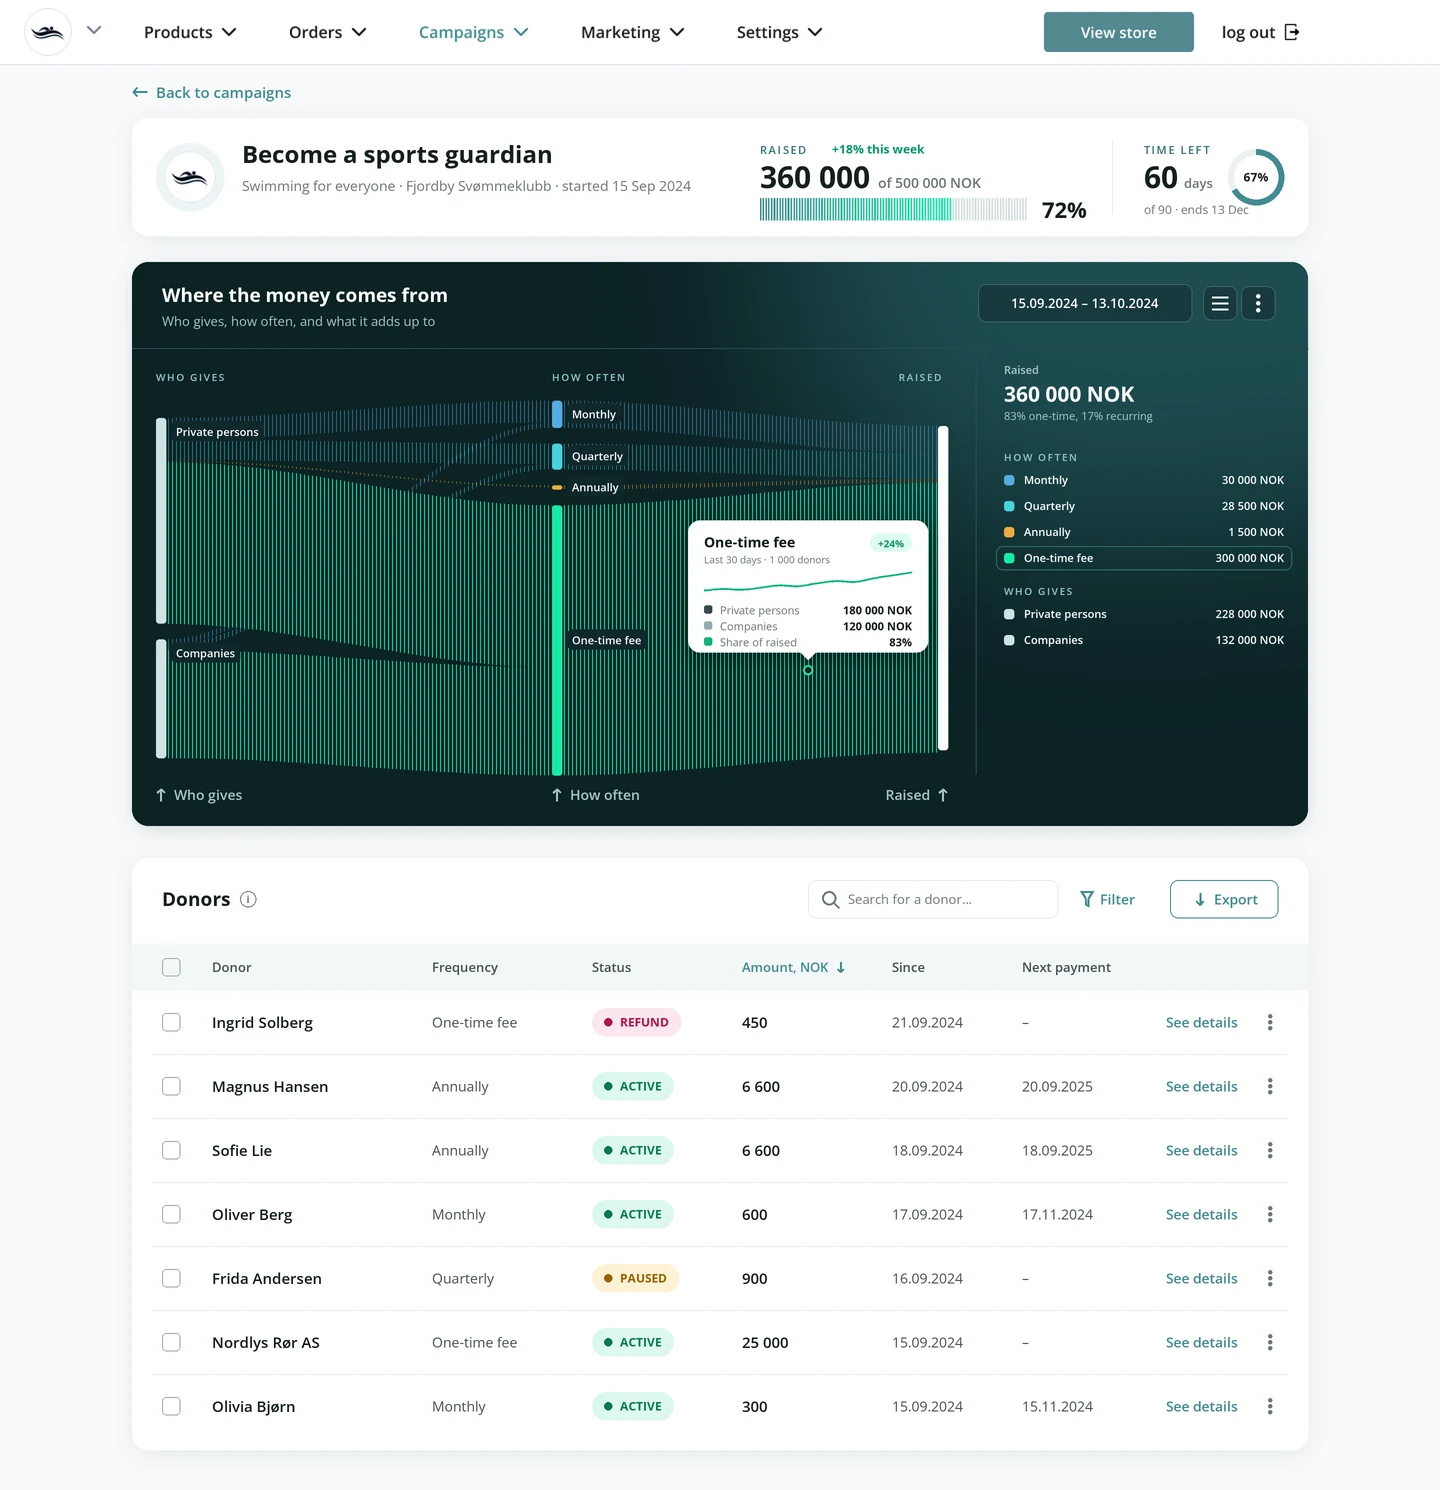
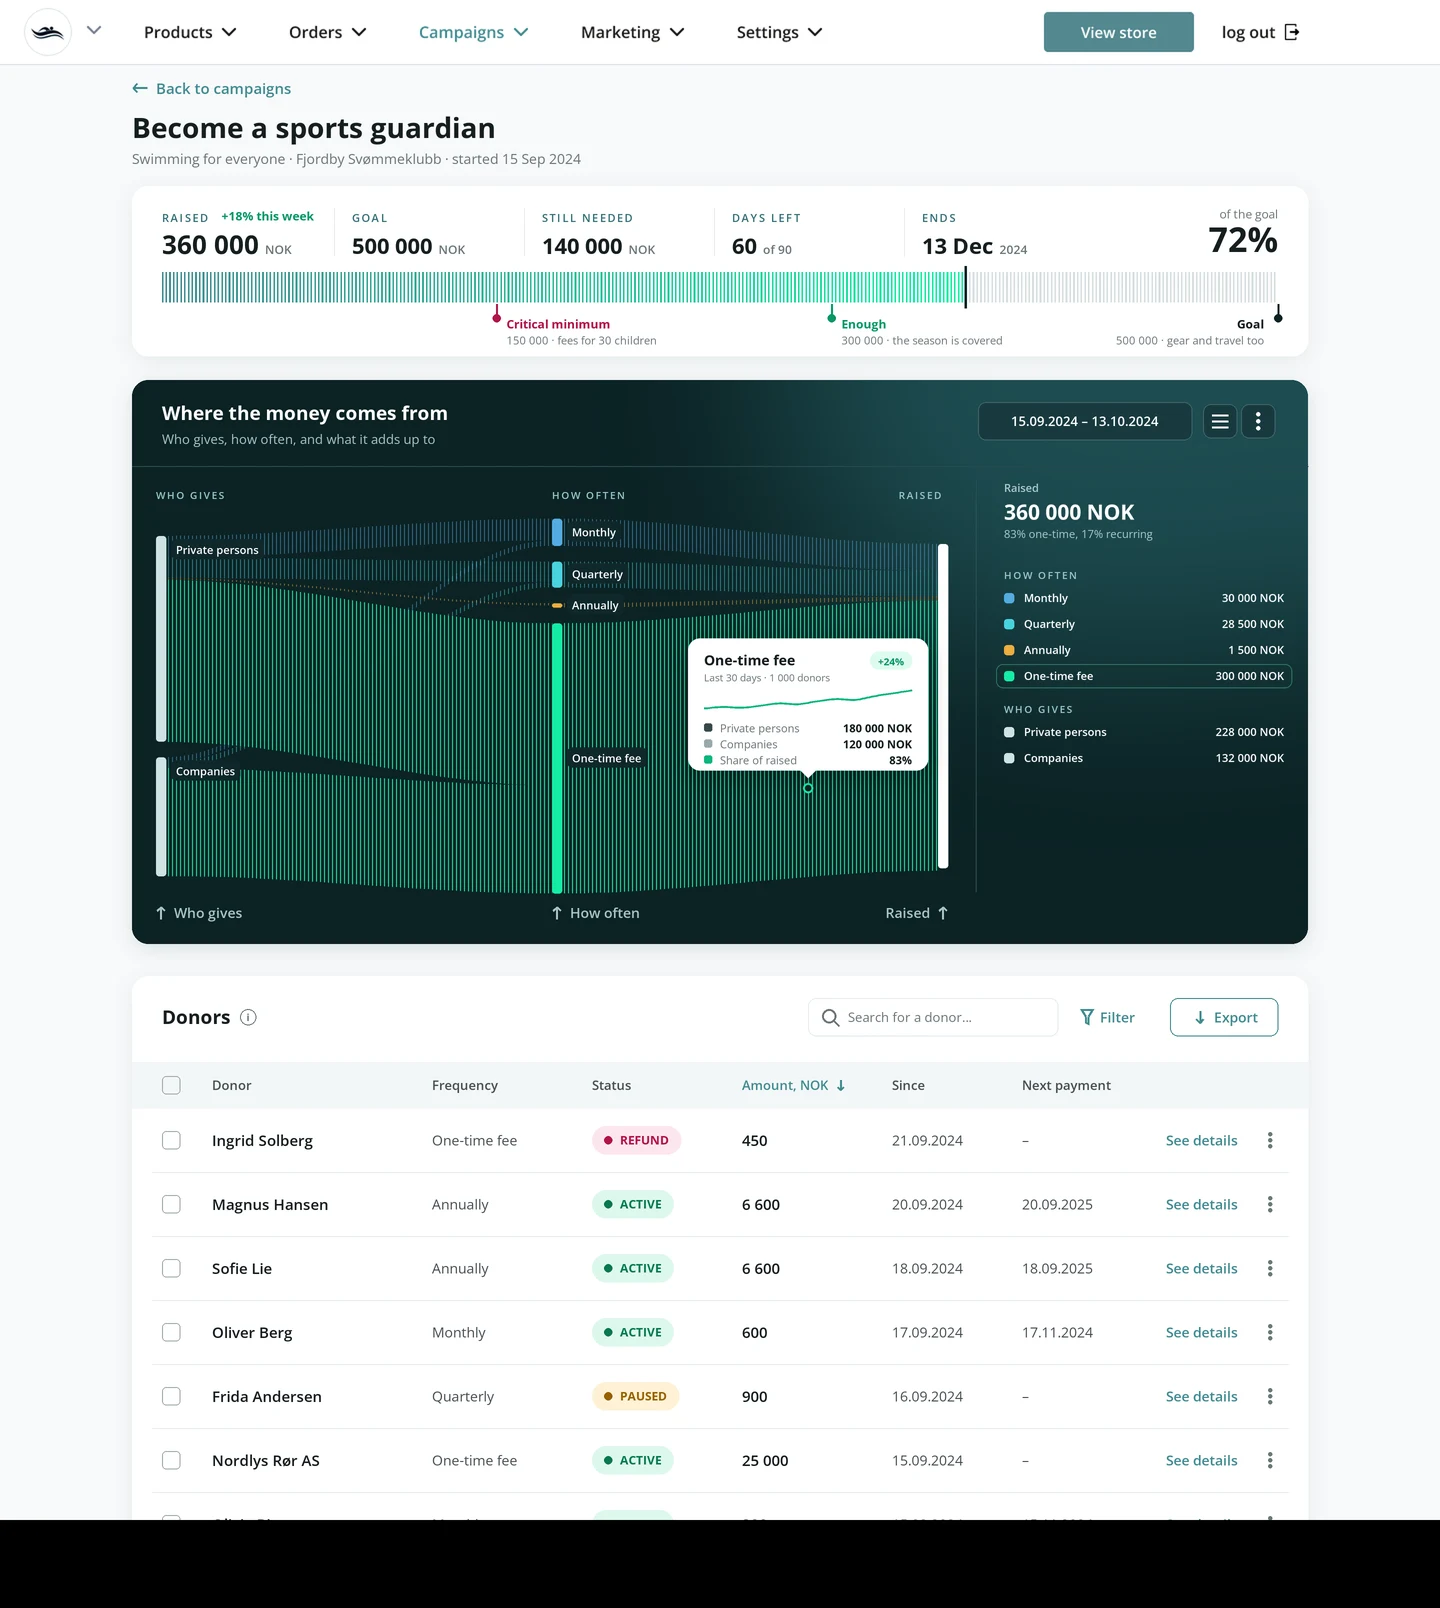
Sport Guardian admin: title above the card; full-width line progress with raised, goal, still needed, days left, end date and marks for critical, enough and goal

diff --git a/SportGuardian.html b/SportGuardian.html
@@ -311,7 +311,7 @@ footer .wrap{display:flex;justify-content:space-between;gap:16px;flex-wrap:wrap}
 
 <figure class="c5-12 rv" style="--d:.1s"><div class="panel"><img class="el c" src="assets/work/sport-guardian/el-create-donations.webp" alt="From the campaign builder: Accept donations from private persons and companies, and Select donation frequency, from monthly to a one-time fee, each with a short hint." width="1200" height="1183" loading="lazy"></div><figcaption>For the club: who can give and how often, with a hint under every choice.</figcaption></figure>
 
-<figure class="c1-12 rv scroll"><div class="panel"><div class="browser" style="max-width:1000px"><div class="bar" aria-hidden="true"><i></i><i></i><i></i><span>admin.supporter.no</span></div><div class="vp fx" style="--to:-41.4%;--t:22s;--hd:4.514%"><img class="hd" src="assets/work/sport-guardian/screen-statistik-head.webp" alt="" width="1440" height="65" loading="lazy"><img src="assets/work/sport-guardian/screen-statistik-body.webp" alt="The campaign dashboard in the admin panel: a header card with the campaign, 360 000 of 500 000 NOK raised with a segmented progress bar at 72% and 60 days left; a dark Sankey card with a date range, the flows from private persons and companies through each frequency to the total, a tooltip on One-time fee and a legend with every amount; and the donor table with search, Filter and Export." width="1440" height="1425" loading="lazy"></div></div></div><figcaption style="max-width:64ch">The campaign dashboard: the goal and the days left at the top, where the money comes from, and every donor with refunds and pauses in one table.</figcaption></figure>
+<figure class="c1-12 rv scroll"><div class="panel"><div class="browser" style="max-width:1000px"><div class="bar" aria-hidden="true"><i></i><i></i><i></i><span>admin.supporter.no</span></div><div class="vp fx" style="--to:-45.9%;--t:24s;--hd:4.514%"><img class="hd" src="assets/work/sport-guardian/screen-statistik-head.webp" alt="" width="1440" height="65" loading="lazy"><img src="assets/work/sport-guardian/screen-statistik-body.webp" alt="The campaign dashboard in the admin panel: the title Become a sports guardian; a progress card with 360 000 NOK raised, a 500 000 NOK goal, 140 000 still needed, 60 days left and the end date, a full-width bar at 72% with marks for the critical minimum, enough and the goal; a dark Sankey card of where the money comes from with a tooltip and a legend; and the donor table with search, Filter and Export." width="1440" height="1543" loading="lazy"></div></div></div><figcaption style="max-width:64ch">The campaign dashboard: the goal and the days left at the top, where the money comes from, and every donor with refunds and pauses in one table.</figcaption></figure>
       <div class="c1-12 rv charts">
         <div class="about"><h3>What this chart is</h3><p><b>A Sankey diagram.</b> Each band is as wide as the amount it carries, so you can follow the money from who gives, through how often they give, to the total.</p><p><b>When to use it:</b> when a whole splits and merges across stages and the question is where the volume goes, as with a budget, the money in a campaign, or the paths people take through a product. With more than about a dozen nodes, or when exact values must be compared, a table or a bar chart reads better.</p></div>
         <div><h3>Other charts, and when to use them</h3><ul class="ctypes"><li><svg viewBox="0 0 56 32" aria-hidden="true" focusable="false"><rect x="4" y="16" width="8" height="14" rx="1" fill="#CFE3E4"/><rect x="16" y="6" width="8" height="24" rx="1" fill="#418B91"/><rect x="28" y="12" width="8" height="18" rx="1" fill="#CFE3E4"/><rect x="40" y="20" width="8" height="10" rx="1" fill="#CFE3E4"/></svg><b>Bar chart</b><span>Compares amounts across categories, such as money raised per club or per campaign.</span></li><li><svg viewBox="0 0 56 32" aria-hidden="true" focusable="false"><path d="M3 26 L14 20 L24 22 L34 11 L44 13 L53 4" fill="none" stroke="#418B91" stroke-width="2" stroke-linejoin="round" stroke-linecap="round"/></svg><b>Line chart</b><span>Shows a trend over time, such as money raised day by day.</span></li><li><svg viewBox="0 0 56 32" aria-hidden="true" focusable="false"><path d="M3 26 L14 19 L24 21 L34 11 L44 12 L53 5 V30 H3 Z" fill="#CFE3E4"/><path d="M3 26 L14 19 L24 21 L34 11 L44 12 L53 5" fill="none" stroke="#418B91" stroke-width="2" stroke-linejoin="round"/></svg><b>Area chart</b><span>A line chart with the volume filled in: for a total that builds up over time.</span></li><li><svg viewBox="0 0 56 32" aria-hidden="true" focusable="false"><rect x="4" y="14" width="10" height="16" fill="#418B91"/><rect x="4" y="8" width="10" height="6" fill="#CFE3E4"/><rect x="22" y="10" width="10" height="20" fill="#418B91"/><rect x="22" y="3" width="10" height="7" fill="#CFE3E4"/><rect x="40" y="18" width="10" height="12" fill="#418B91"/><rect x="40" y="12" width="10" height="6" fill="#CFE3E4"/></svg><b>Stacked bar chart</b><span>Parts of a whole, compared across groups, such as one-time and recurring gifts per campaign.</span></li><li><svg viewBox="0 0 56 32" aria-hidden="true" focusable="false"><polygon points="28.0,2.0 40.1,9.0 40.1,23.0 28.0,30.0 15.9,23.0 15.9,9.0" fill="none" stroke="#CFE3E4" stroke-width="1"/><polygon points="28.0,7.0 35.8,11.5 35.8,20.5 28.0,25.0 20.2,20.5 20.2,11.5" fill="none" stroke="#CFE3E4" stroke-width="1"/><polygon points="28.0,11.5 31.9,13.8 31.9,18.2 28.0,20.5 24.1,18.2 24.1,13.8" fill="none" stroke="#CFE3E4" stroke-width="1"/><line x1="28" y1="16" x2="28.0" y2="2.0" stroke="#CFE3E4" stroke-width="1"/><line x1="28" y1="16" x2="40.1" y2="9.0" stroke="#CFE3E4" stroke-width="1"/><line x1="28" y1="16" x2="40.1" y2="23.0" stroke="#CFE3E4" stroke-width="1"/><line x1="28" y1="16" x2="28.0" y2="30.0" stroke="#CFE3E4" stroke-width="1"/><line x1="28" y1="16" x2="15.9" y2="23.0" stroke="#CFE3E4" stroke-width="1"/><line x1="28" y1="16" x2="15.9" y2="9.0" stroke="#CFE3E4" stroke-width="1"/><polygon points="28.0,4.0 34.9,12.0 39.3,22.5 28.0,22.0 19.3,21.0 20.2,11.5" fill="#418B91" fill-opacity=".35" stroke="#418B91" stroke-width="1.6" stroke-linejoin="round"/></svg><b>Radar chart</b><span>Compares several measures of one thing at once, such as how a club does on donors, gifts, reach and repeat giving against the average; reads best with five to eight measures.</span></li><li><svg viewBox="0 0 56 32" aria-hidden="true" focusable="false"><circle cx="28" cy="16" r="11" fill="none" stroke="#CFE3E4" stroke-width="5"/><path d="M28 5 A11 11 0 1 1 18.5 21.5" fill="none" stroke="#418B91" stroke-width="5"/></svg><b>Donut or progress ring</b><span>One share of a whole, or progress to a goal; reads best with one to three parts.</span></li><li><svg viewBox="0 0 56 32" aria-hidden="true" focusable="false"><rect x="4" y="3" width="48" height="6" rx="1" fill="#418B91"/><rect x="11" y="12" width="34" height="6" rx="1" fill="#418B91" fill-opacity=".7"/><rect x="18" y="21" width="20" height="6" rx="1" fill="#418B91" fill-opacity=".45"/></svg><b>Funnel chart</b><span>How many people drop off between the steps of a flow, from the campaign page to the payment.</span></li><li><svg viewBox="0 0 56 32" aria-hidden="true" focusable="false"><rect x="4" y="3" width="9" height="8" rx="1" fill="#418B91" fill-opacity="0.2"/><rect x="14" y="3" width="9" height="8" rx="1" fill="#418B91" fill-opacity="0.5"/><rect x="24" y="3" width="9" height="8" rx="1" fill="#418B91" fill-opacity="0.9"/><rect x="34" y="3" width="9" height="8" rx="1" fill="#418B91" fill-opacity="0.6"/><rect x="44" y="3" width="9" height="8" rx="1" fill="#418B91" fill-opacity="0.3"/><rect x="4" y="12" width="9" height="8" rx="1" fill="#418B91" fill-opacity="0.4"/><rect x="14" y="12" width="9" height="8" rx="1" fill="#418B91" fill-opacity="0.8"/><rect x="24" y="12" width="9" height="8" rx="1" fill="#418B91" fill-opacity="1"/><rect x="34" y="12" width="9" height="8" rx="1" fill="#418B91" fill-opacity="0.7"/><rect x="44" y="12" width="9" height="8" rx="1" fill="#418B91" fill-opacity="0.2"/><rect x="4" y="21" width="9" height="8" rx="1" fill="#418B91" fill-opacity="0.1"/><rect x="14" y="21" width="9" height="8" rx="1" fill="#418B91" fill-opacity="0.3"/><rect x="24" y="21" width="9" height="8" rx="1" fill="#418B91" fill-opacity="0.5"/><rect x="34" y="21" width="9" height="8" rx="1" fill="#418B91" fill-opacity="0.4"/><rect x="44" y="21" width="9" height="8" rx="1" fill="#418B91" fill-opacity="0.15"/></svg><b>Heatmap</b><span>Patterns across two dimensions, such as donations by weekday and hour.</span></li><li><svg viewBox="0 0 56 32" aria-hidden="true" focusable="false"><circle cx="6" cy="26" r="2.6" fill="#418B91"/><circle cx="12" cy="23" r="2.6" fill="#418B91"/><circle cx="16" cy="24" r="2.6" fill="#418B91"/><circle cx="21" cy="19" r="2.6" fill="#418B91"/><circle cx="26" cy="18" r="2.6" fill="#418B91"/><circle cx="30" cy="15" r="2.6" fill="#418B91"/><circle cx="35" cy="14" r="2.6" fill="#418B91"/><circle cx="39" cy="10" r="2.6" fill="#418B91"/><circle cx="44" cy="11" r="2.6" fill="#418B91"/><circle cx="49" cy="6" r="2.6" fill="#418B91"/><circle cx="24" cy="25" r="2.6" fill="#418B91"/><circle cx="42" cy="20" r="2.6" fill="#418B91"/></svg><b>Scatter plot</b><span>How two measures relate, such as the size of a gift and how often the donor gives.</span></li></ul></div>

diff --git a/tools/sport-guardian/admin_dash.py b/tools/sport-guardian/admin_dash.py
@@ -41,28 +41,30 @@ def arrow(x, y, dirn, col, size=7):
     if dirn == 'up': d.line(P(x, y+size, x, y-size), fill=col, width=2*S); d.line([P(x-size*.6, y-size*.4), P(x, y-size), P(x+size*.6, y-size*.4)], fill=col, width=2*S)
     if dirn == 'down': d.line(P(x, y-size, x, y+size), fill=col, width=2*S); d.line([P(x-size*.6, y+size*.4), P(x, y+size), P(x+size*.6, y+size*.4)], fill=col, width=2*S)
     if dirn == 'left': d.line(P(x+size, y, x-size, y), fill=col, width=2*S); d.line([P(x-size*.4, y-size*.6), P(x-size, y), P(x-size*.4, y+size*.6)], fill=col, width=2*S)
-# back link
-arrow(X0+8, 92, 'left', TEAL); text(X0+24, 92, 'Back to campaigns', f('SemiBold', 15), TEAL, 'lm')
+# back link, then the campaign title as the page title, above the card (her request, 2026-10-14)
+arrow(X0+8, 88, 'left', TEAL); text(X0+24, 88, 'Back to campaigns', f('SemiBold', 15), TEAL, 'lm')
+text(X0, 138, 'Become a sports guardian', f('Bold', 28), INK, 'ls')
+text(X0, 164, 'Swimming for everyone · Fjordby Svømmeklubb · started 15 Sep 2024', f('Regular', 14), MUT, 'ls')
 
-# 1. the header card: the campaign on the left, raised and time left on the right
-y0, y1 = 118, 236; card(X0, y0, X1, y1)
-cx, cy, r = X0+58, (y0+y1)/2, 34
-d.ellipse(P(cx-r, cy-r, cx+r, cy+r), fill=(236, 244, 245))
-logo = head.crop((24, 8, 72, 56)).resize((int(52*S), int(52*S)), Image.LANCZOS)
-m = Image.new('L', logo.size, 0); ImageDraw.Draw(m).ellipse((0, 0, logo.width-1, logo.height-1), fill=255)
-im.paste(logo, P(cx-26, cy-26), m)
-text(X0+110, cy-14, 'Become a sports guardian', f('Bold', 24), INK, 'ls')
-text(X0+110, cy+14, 'Swimming for everyone · Fjordby Svømmeklubb · started 15 Sep 2024', f('Regular', 14), MUT, 'ls')
-# raised
-rx = 760
-_tracked(d, P(rx, y0+24), 'RAISED', f('SemiBold', 11), LAB, 1.6*S)
-text(rx, y0+70, '360 000', f('Bold', 30), INK, 'ls')
-nw_ = d.textlength('360 000', font=f('Bold', 30))/S
-text(rx+nw_+8, y0+70, 'of 500 000 NOK', f('SemiBold', 14), MUT, 'ls')
-text(rx+72, y0+31, '+18% this week', f('Bold', 12), UP, 'lm')
-# the progress as a dense field of thin vertical lines (her reference, 2026-10-14): raised in teal to green,
-# the rest as faint grey lines
-bl, br, by, bh = rx, rx+268, y0+80, 22; n = 96; step = (br-bl)/n; on = round(n*.72)
+# 1. the progress card, after her reference: the numbers on top, a full-width bar of thin vertical lines, and marks
+# under it for the critical minimum, the amount that is enough, and the goal. Thresholds are made up for the mockup.
+y0, y1 = 186, 356; card(X0, y0, X1, y1)
+GOAL, RAISED_ = 500000, 360000
+stats = [('RAISED', '360 000', 'NOK', '+18% this week'), ('GOAL', '500 000', 'NOK', ''), ('STILL NEEDED', '140 000', 'NOK', ''),
+         ('DAYS LEFT', '60', 'of 90', ''), ('ENDS', '13 Dec', '2024', '')]
+sx = X0+30; colw = 190
+for k, (lab_, val, unit, extra) in enumerate(stats):
+    x = sx+k*colw
+    _tracked(d, P(x, y0+24), lab_, f('SemiBold', 11), LAB, 1.6*S)
+    vf = f('Bold', 26 if k == 0 else 22); text(x, y0+68, val, vf, INK, 'ls')
+    vw = d.textlength(val, font=vf)/S; text(x+vw+6, y0+68, unit, f('SemiBold', 12), MUT, 'ls')
+    if extra: text(x+d.textlength(lab_, font=f('SemiBold', 11))/S+12+len(lab_)*1.6, y0+30, extra, f('Bold', 12), UP, 'lm')
+    if k: d.line(P(x-18, y0+22, x-18, y0+70), fill=LINE, width=S)
+text(X1-30, y0+66, '72%', f('Bold', 34), INK, 'rs')
+text(X1-30, y0+28, 'of the goal', f('Regular', 12), MUT, 'rm')
+# the bar
+bl, br, by, bh = X0+30, X1-30, y0+86, 30
+n = 300; step = (br-bl)/n; on = round(n*RAISED_/GOAL)
 for k in range(n):
     x = bl+k*step
     if k < on:
@@ -70,22 +72,24 @@ for k in range(n):
     else:
         col = (214, 222, 224)
     d.rectangle(P(x, by, x+1.1, by+bh), fill=col)
-text(br+14, by+bh/2, '72%', f('Bold', 22), INK, 'lm')
-d.line(P(rx+352, y0+22, rx+352, y1-22), fill=LINE, width=S)
-# time left
-tx = rx+384
-_tracked(d, P(tx, y0+24), 'TIME LEFT', f('SemiBold', 11), LAB, 1.6*S)
-text(tx, y0+70, '60', f('Bold', 30), INK, 'ls'); text(tx+40, y0+70, 'days', f('SemiBold', 13), MUT, 'ls')
-text(tx, y0+96, 'of 90 · ends 13 Dec', f('Regular', 12), MUT, 'ls')
-ccx, ccy, cr = X1-52, cy, 28
-d.ellipse(P(ccx-cr, ccy-cr, ccx+cr, ccy+cr), outline=(234, 240, 241), width=6*S)
-d.arc(P(ccx-cr, ccy-cr, ccx+cr, ccy+cr), -90, -90+240, fill=TEAL, width=6*S)
-text(ccx, ccy, '67%', f('Bold', 12), INK, 'mm')
+# the raised mark at the end of the fill
+xr = bl+(br-bl)*RAISED_/GOAL; d.rectangle(P(xr-1, by-6, xr+1, by+bh+6), fill=DEEP)
+# marks under the bar
+CRIT = (176, 20, 74)
+marks = [(150000, 'Critical minimum', '150 000 · fees for 30 children', CRIT), (300000, 'Enough', '300 000 · the season is covered', UP),
+         (500000, 'Goal', '500 000 · gear and travel too', DEEP)]
+for v, name, sub, mc in marks:
+    x = bl+(br-bl)*v/GOAL; a = 'ra' if v == GOAL else 'la'
+    d.line(P(x, by+bh+2, x, by+bh+14), fill=mc, width=2*S)
+    xx = x-4 if v == GOAL else x+6
+    d.ellipse(P(x-4, by+bh+12, x+4, by+bh+20), fill=mc)
+    text(xx-10 if v == GOAL else xx+4, by+bh+22, name, f('Bold', 12), mc if mc != DEEP else INK, 'rm' if v == GOAL else 'lm')
+    text(xx-10 if v == GOAL else xx+4, by+bh+38, sub, f('Regular', 11), MUT, 'rm' if v == GOAL else 'lm')
 
 # 2. the Sankey card: deep teal with a soft glow (as before), the new header with the date range and controls, the
 # chart as it was (its data, tooltip and legend, sankey.flow_body), and the column names along the bottom
 from sankey import flow_body
-y0 = 262; BODY = 420; y1 = y0+92+BODY+52
+y0 = 380; BODY = 420; y1 = y0+92+BODY+52
 sh = Image.new('L', im.size, 0); ImageDraw.Draw(sh).rounded_rectangle(P(X0+2, y0+6, X1-2, y1+3), 16*S, fill=40)
 im.paste(Image.new('RGB', im.size, (30, 60, 66)), (0, 0), sh.filter(ImageFilter.GaussianBlur(10*S)))
 cw, chh = (X1-X0)*S, (y1-y0)*S

diff --git a/sportguardian.md b/sportguardian.md
@@ -64,4 +64,5 @@ The admin screen in the Product section is now drawn from scratch by [`tools/spo
 - **Donor table**: title, search, Filter and Export in the card header, the column headers in the same card (Donor, Frequency, Status, Amount, Since, Next payment), seven made-up donors, status pills with a dot and a text label (Active, Refund, Paused), See details and a menu per row.
 The separate dark "Where the money comes from" block on the page is removed (her choice: the Sankey lives inside the admin). The "What this chart is" and "Other charts" notes stay, under the dashboard. The dashboard scrolls slowly inside the browser frame. All figures are made up for the mockup.
 Then (2026-10-14, her request): the Sankey card is the dark one again, deep teal with a soft glow, with the chart as it was (its data, the tooltip on One-time fee and the legend with every amount on the right; `sankey.flow_body`), under the new header with the date range and controls, and with Who gives, How often and Raised along the bottom. The tabs are removed. RAISED reads "360 000 of 500 000 NOK" with "+18% this week" beside the label, and no goal line under the bar.
+Then (2026-10-14, her request, after her line-field reference): the campaign title and its line ("Swimming for everyone · Fjordby Svømmeklubb · started 15 Sep 2024") moved out of the card to the top of the page, under Back to campaigns; the card is one full-width progress: on top RAISED 360 000 NOK (+18% this week), GOAL 500 000, STILL NEEDED 140 000, DAYS LEFT 60 of 90, ENDS 13 Dec 2024 and a large 72% of the goal; then a bar of 300 thin vertical lines across the card (raised teal to green, the rest faint grey, a dark mark where the raised amount ends); under it marks with a dot and a label: Critical minimum 150 000 (fees for 30 children), Enough 300 000 (the season is covered), Goal 500 000 (gear and travel too). The thresholds are made up for the mockup.
 
